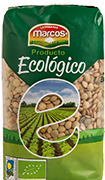
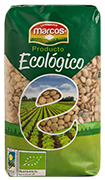
Added bag

diff --git a/build/otrosproductos.html b/build/otrosproductos.html
@@ -72,7 +72,7 @@
       <div class='col-md-6 clearfix u-small-padding u-desktop-order'>
         <div class='col-md-6 col-xs-6 mbtn u-small-padding'>
           <div class='products-img'>
-            <div class="center-img img-responsive"><img src='img/guisante_bolsa_tela.png'></div>
+            <div class="center-img img-responsive"><img src='img/seco_saquito.png'></div>
           </div>
         </div>
         <div class='col-md-6 col-xs-6 u-small-padding'>
@@ -90,7 +90,7 @@
       <div class='col-md-6 clearfix u-small-padding u-desktop-order'>
         <div class='col-md-6 col-xs-6 u-small-padding'>
           <div class='products-img'>
-            <div class="center-img img-responsive"><img src='img/guisante_verde_bag.png'></div>
+            <div class="center-img img-responsive"><img src='img/guisante_verde_bag_2.png'></div>
           </div>
         </div>
         <div class='col-md-6 col-xs-6 u-small-padding'>
@@ -102,7 +102,7 @@
       <div class='col-md-6 clearfix u-small-padding u-desktop-order'>
         <div class='col-md-6 col-xs-6 mbtn u-small-padding'>
           <div class='products-img'>
-            <div class="center-img img-responsive"><img src='img/sm_lentejas/pardina.png'></div>
+            <div class="center-img img-responsive"><img src='img/guisante_bolsa_tela.png'></div>
           </div>
         </div>
         <div class='col-md-6 col-xs-6 u-small-padding'>
